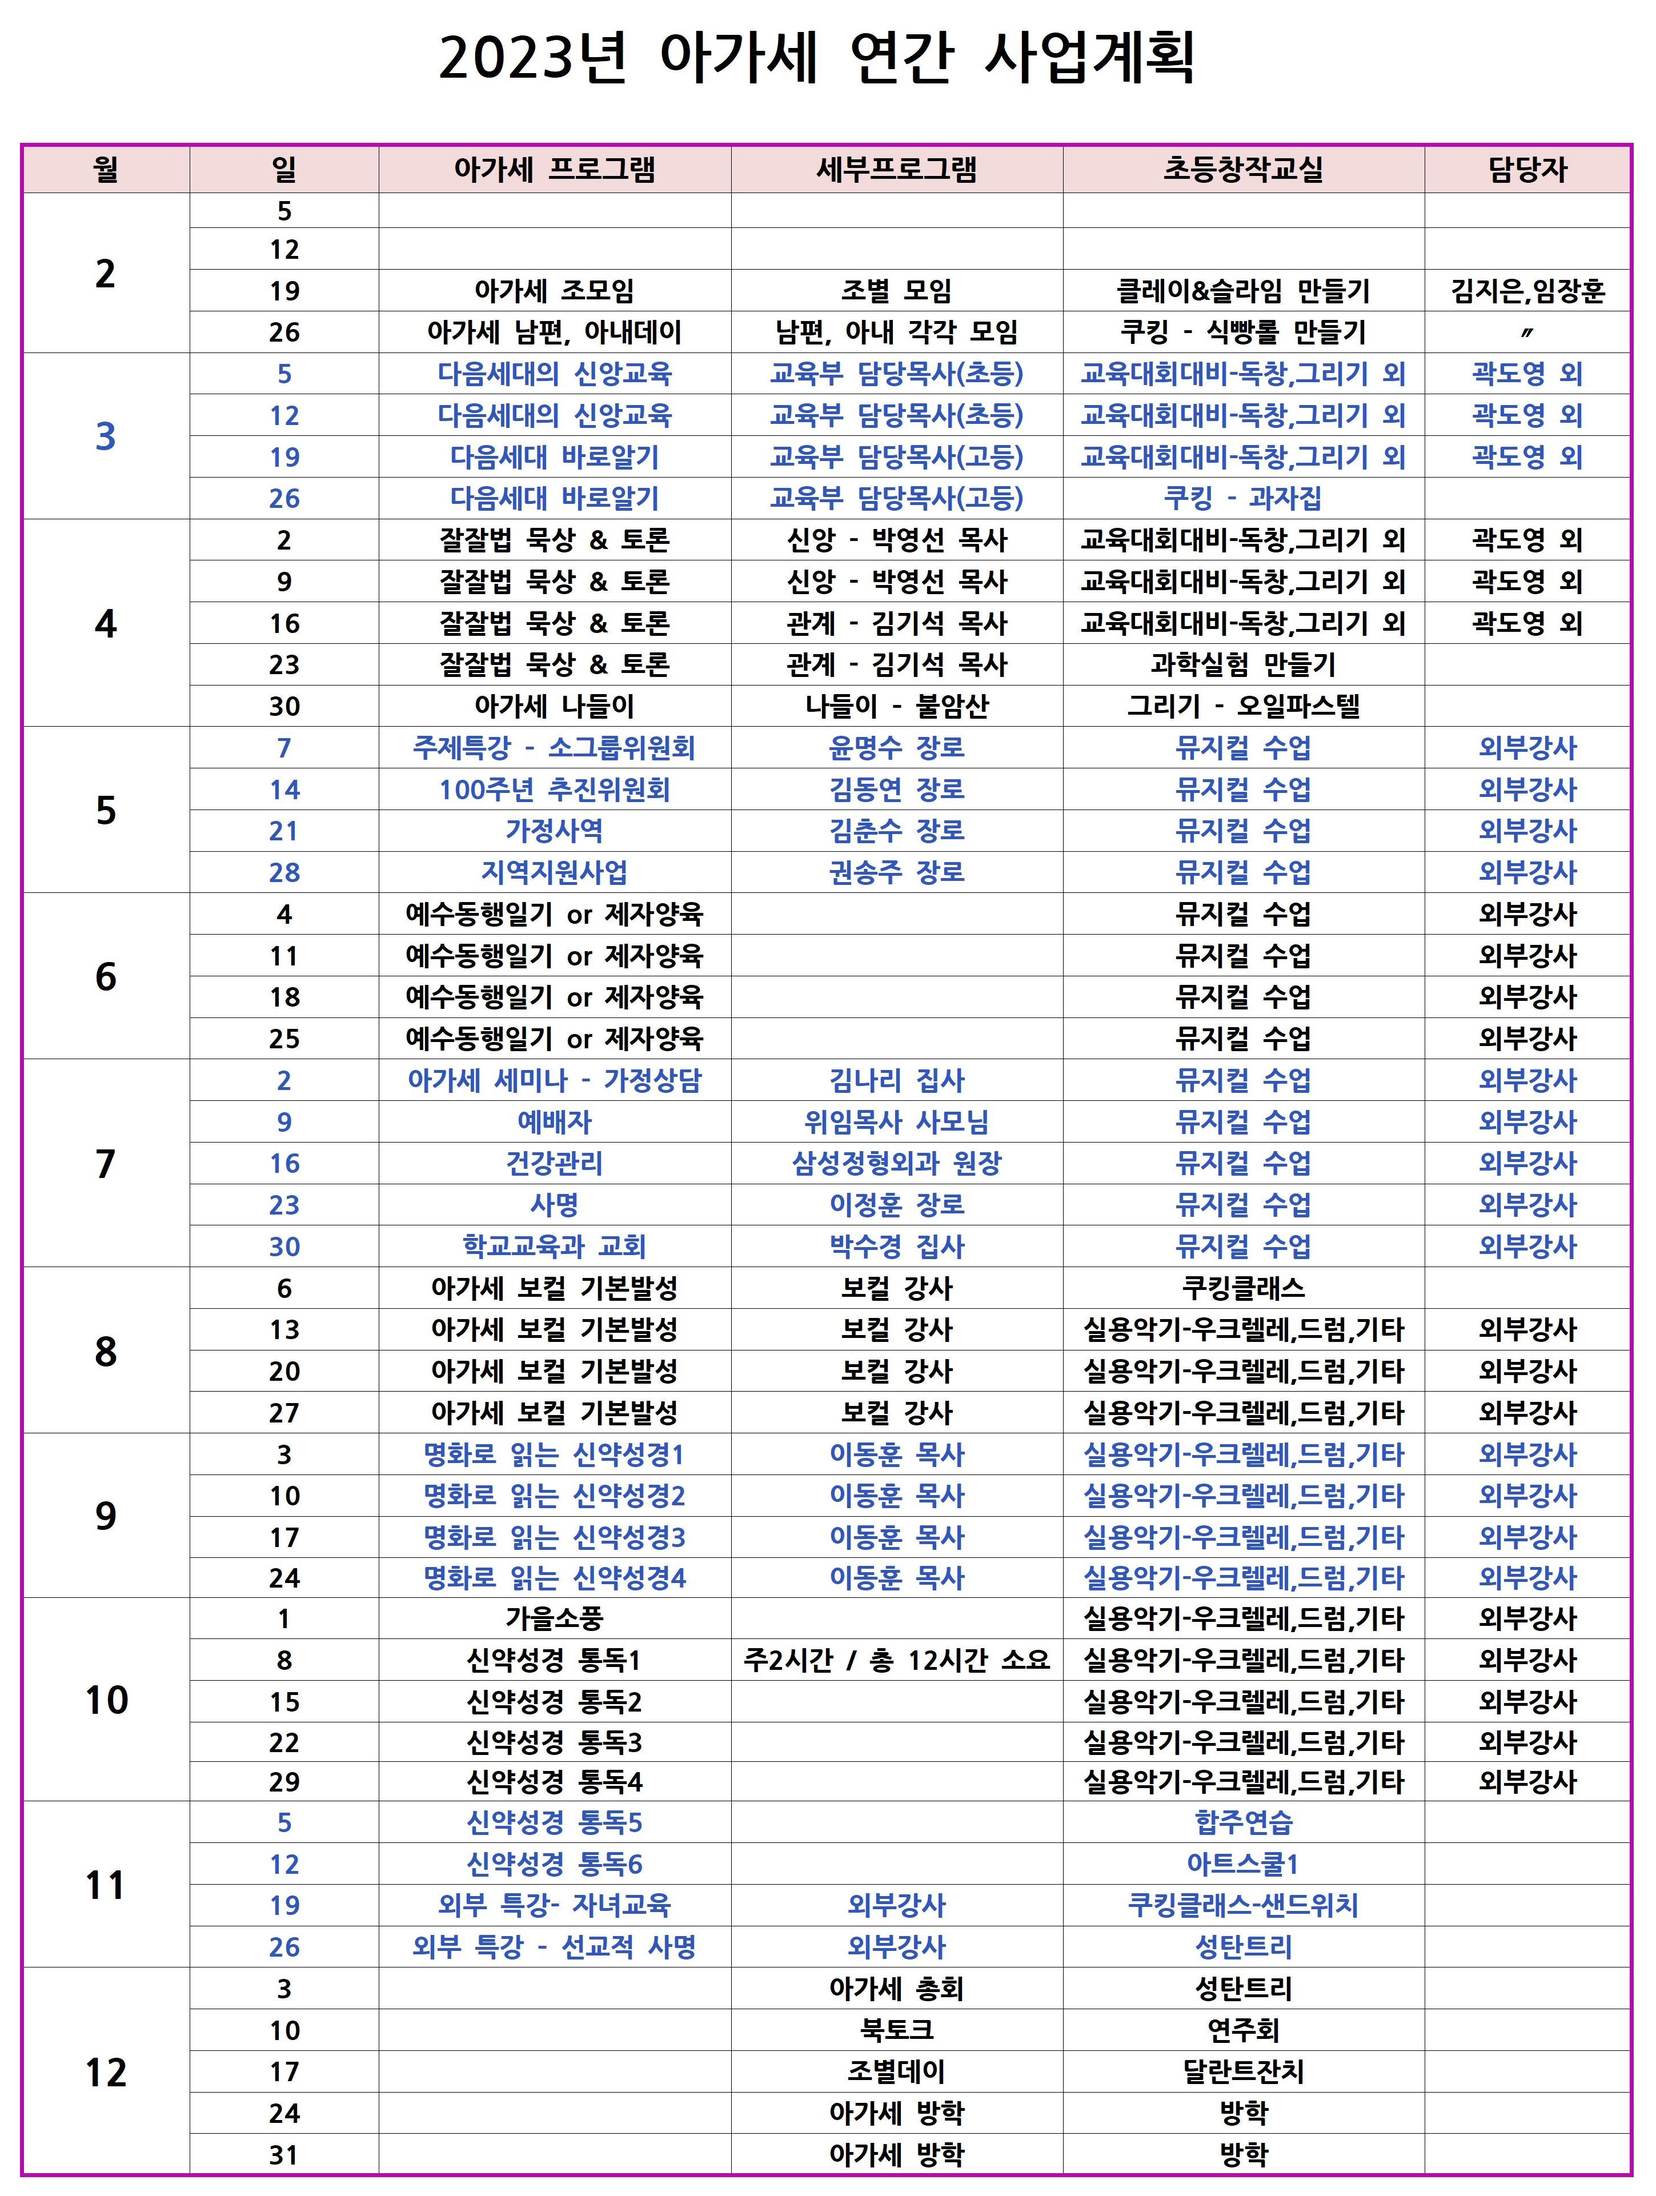
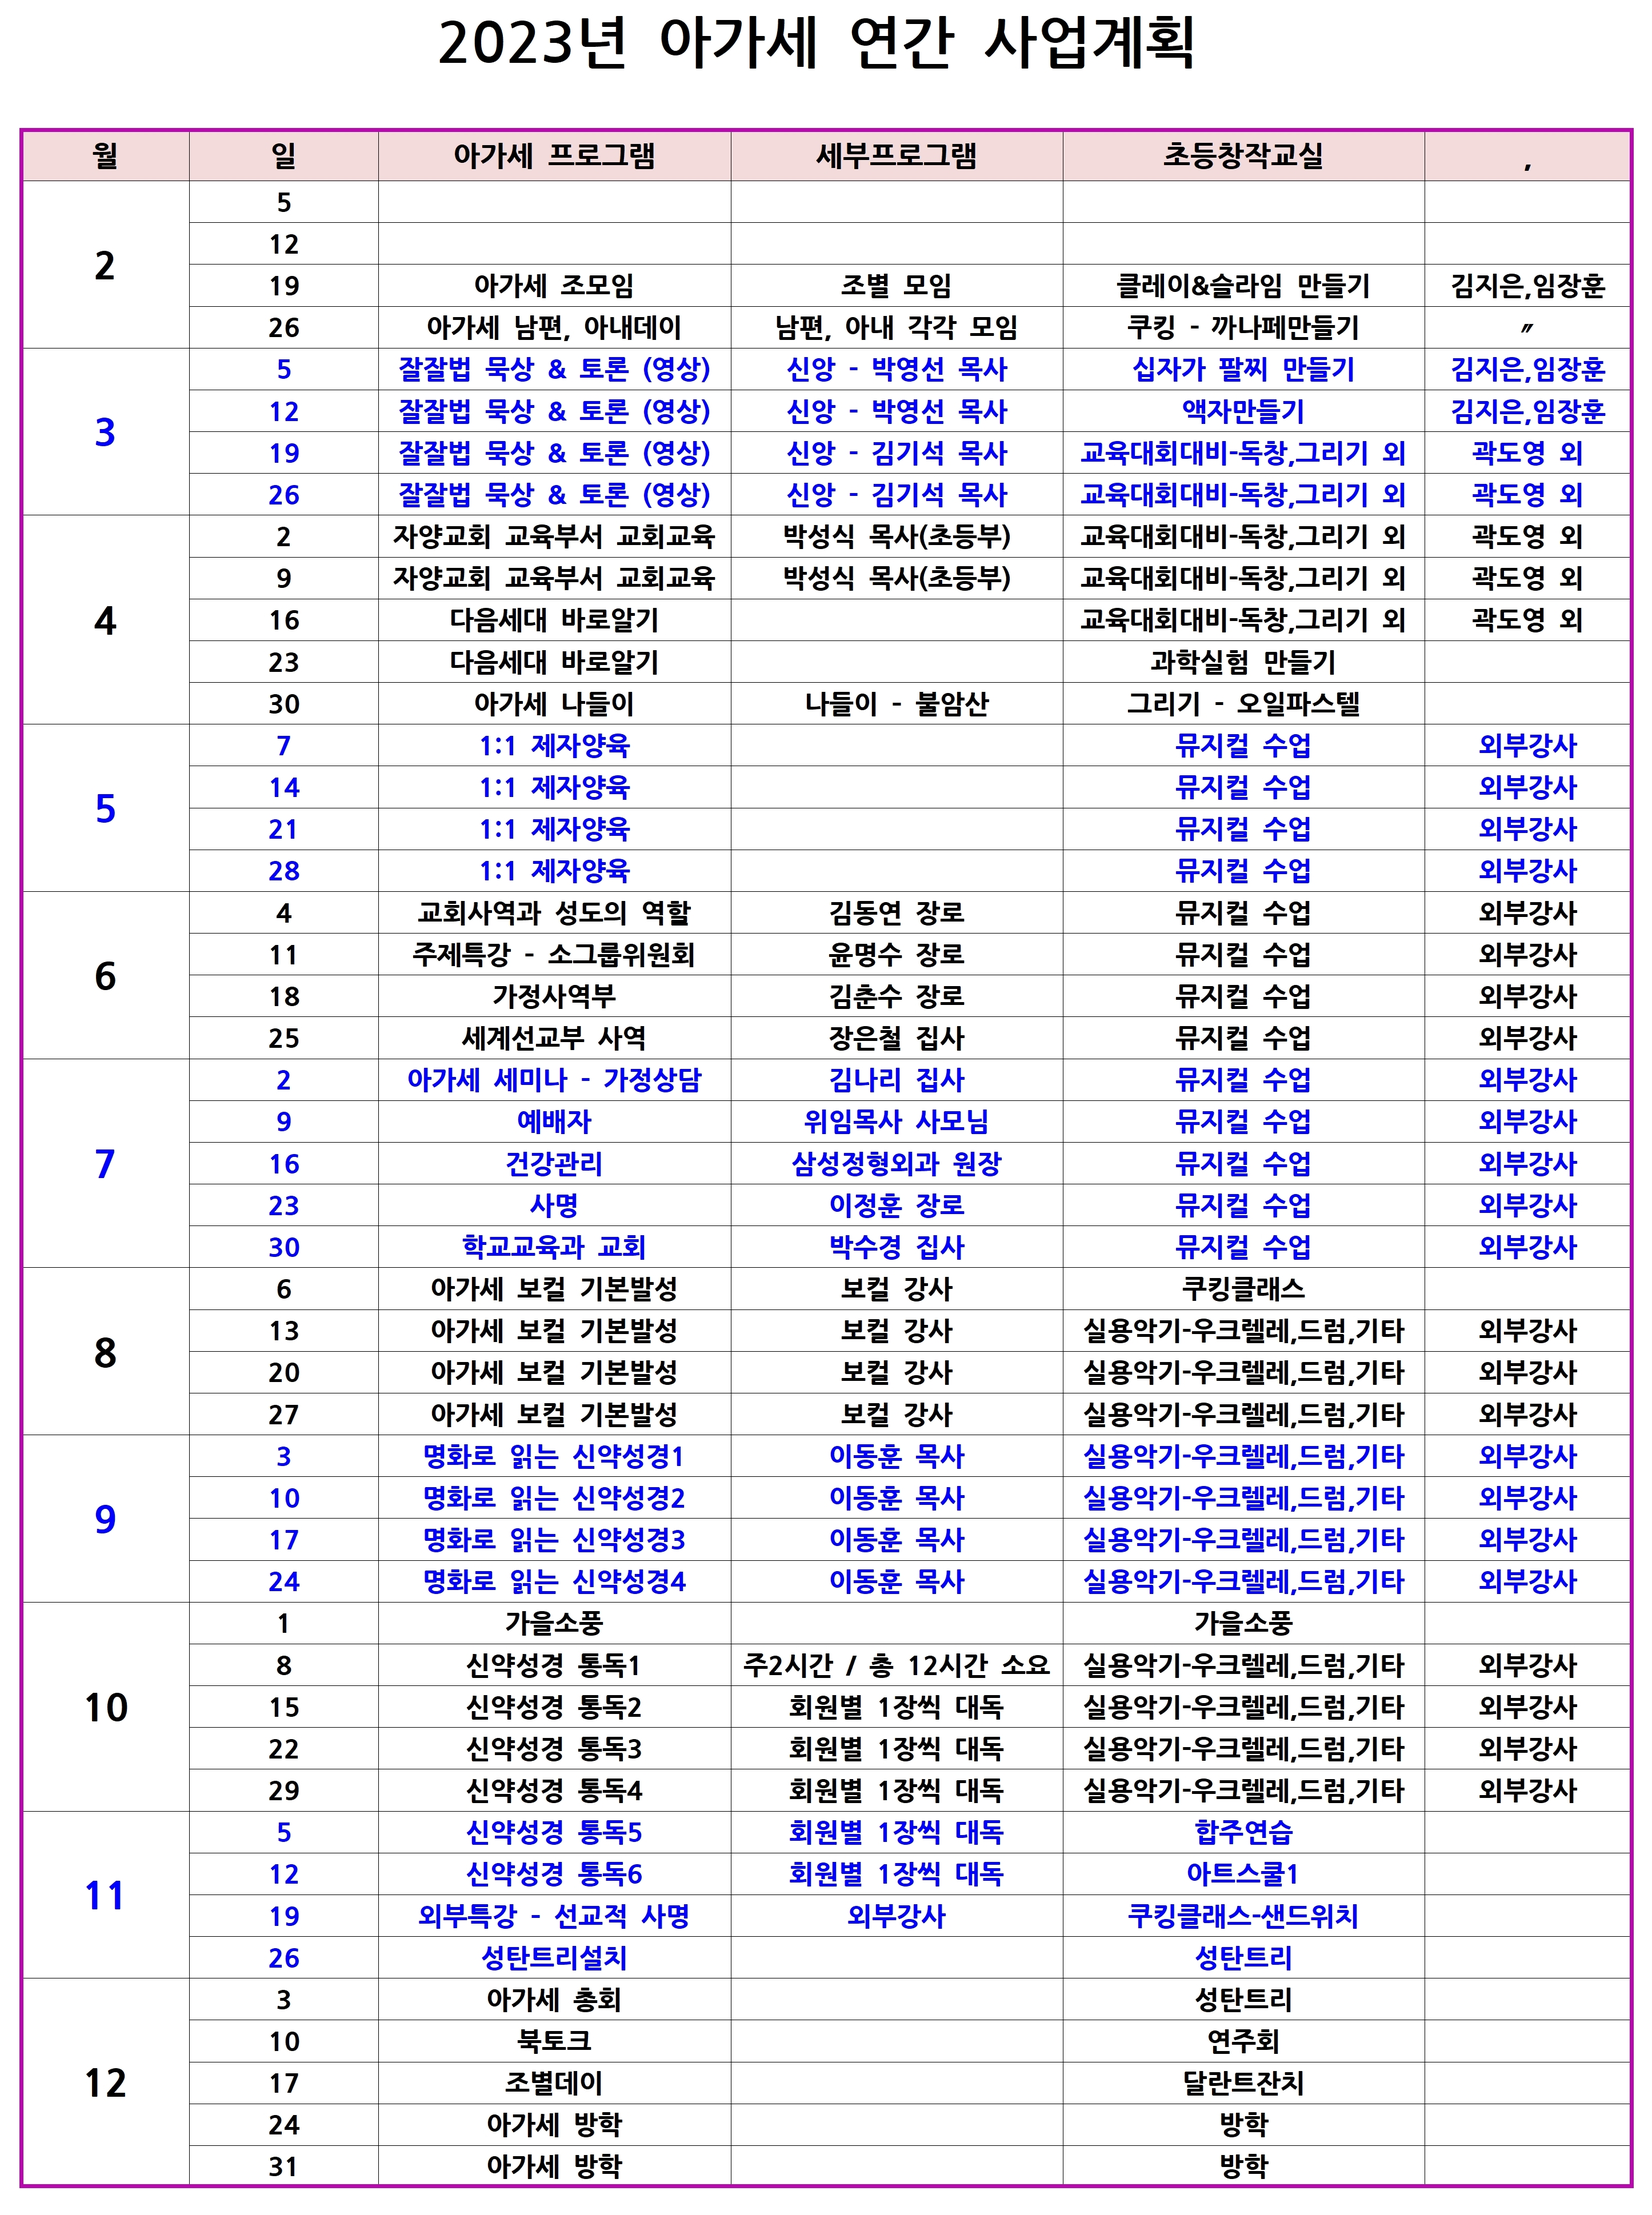
2023-02-26

Changed region(s): [[0.0, 0.0, 0.9962, 0.999], [0.0623, 0.7492, 0.0934, 0.7804], [0.0623, 0.1873, 0.0934, 0.2185]]

diff --git a/2023-02-26.md b/2023-02-26.md
@@ -14,64 +14,44 @@ permalink: /last
 ## 예배와 나눔
 
 ### 1. 🎤 찬양
-- 찬양 인도: 정주영 집사
-- 오늘의 찬양: 미정 🎵 [악보보기](#1){: .label}
-- 찬양 영상: 📺 [유튜브(새창)](https://www.youtube.com/watch?v=qDyCoSMia48&feature=youtu.be){: .label}
+- 찬양 인도: 김태근 집사
+- 오늘의 찬양:
+  - 예수 가장 귀한 그이름  🎵 [악보보기(1)](#1){: .label}
+  - 모든 걸음 되시네 🎵 [악보보기(2)](#2){: .label}
+- 찬양 영상: 📺 [유튜브(새창)](https://www.youtube.com/playlist?list=PLb8xb_lIoJ_HK2A0LogV1LJuPCdc6u5QD){: .label}
 
 ### 2. 🙏 대표기도
-- 대표기도: 정주영 집사 (다음: 황인택 집사)
+- 대표기도: 김춘수 장로 (다음: 정주영 집사)
+- 전하는 말: 김춘수 장로
 - 간식, 대표기도 일정 [확인 및 수정(구글시트)](https://docs.google.com/spreadsheets/d/1lbI19_aBxfNdhaPLaUOwoYV0HYdjHeSiXNjnpaHt0dw/edit?usp=sharing){: .label}
 
-### 3. ⛪ 예배
-- 말씀: 이동훈 목사
-- 인사: 김춘수 장로, 장은철 집사
-
-### 4. 🗣 안내
+### 3. 🗣 안내
 - 진행: 하걸범 집사
 
-### 5. ☕ 나눔
+### 4. ☕ 나눔
 - 진행 행사
-  - 👨 남편 데이 (교육관 9층)
-  - 👩 아내 데이 (외부, 1인당 7천원 지원)
+  - 👨 남편 데이: 인도 - 김효일 집사 (교육관 9층)
+  - 👩 아내 데이: 인도 - 김나리 집사 (외부, 1인당 7천원 지원)
 
 - 모임  주제
   - 분기 별 조 구성
   - 조별 나눔 시 Guidance 수립
 
-- 다음: 잘잘법 묵상 & 토론 [박영선 목사]
+- 다음: 잘잘법 묵상 & 토론 [신앙 - 박영선 목사]
 - 전체 프로그램 [사업계획](schedule){: .label}
 
 ## 🏫 아동스쿨
-- 주제: 쿠킹 - 식빵롤 만들기
+- 주제: 쿠킹클라스 - 까나페 만들기
+- 시간: 12시 ~ 13시
 - 담당교사: 김지은, 임장훈
-- 시간: 12시 ~ 1시
-- 다음: 교육대회 준비 (독창, 그리기 등)
-
-<!-- - 오늘의 QT: [생명의삶](#qt){: .label} -->
-
-<!-- ### 4. 알림 -->
-<!-- - 오늘은 아가세 종강 모임으로 모입니다. 준비한 음식을 함께 나누며 총회를 진행하고자 합니다. -->
-<!-- - 지난 1년 간 아가세 가족 모두 수고 많으셨습니다. 방학 중에도 하나님의 은혜 가운데 거하시기를 기원하며 2023년 개강 모임은 추후 공지하겠습니다. -->
-<!-- - 교회 창립 100주년을 맞아 진행 중인 “성경 100권” 필사 운동에 아기세 가족들의 많은 참여 부탁드립니다. -->
-
-<!-- ## 함께 기도해요 -->
-<!-- - 김대중 집사: 아버님이 주님을 영접하시고, 진숙현 지사님의 어께 통증이 치유받도록 -->
-<!-- - 이승은/정현숙 집사: 자녀(주아, 수한)의 믿음이 잘나고 교회 출석에 열심을 낼 수 있도록 -->
-<!-- - 황인택 집사: 아버님의 건강을 회복시켜 주시고, 마음을 열어 예수님을 영접할 수 있도록 -->
-<!-- - 김경미 집사: 딸들의 건강을 지켜주시고 은혜 가운데 잘 자라날 수 있도록 -->
-<!-- - 배지연 집사: 진로(진학, 수련, 직장)와 관련하여 하나님의 인도하심을 위해 -->
+- 다음 주제: 십자가 팔찌 만들기
 
 ---
 
 ## 악보
 
 ### 1
-<!-- ![](attachments/rise-again_welove.jpeg) -->
+![](attachments/2023-02-26_1.png)
 
-<!-- ### 2 -->
-<!-- ![](b.jpeg) -->
-
-<!-- ## QT -->
-
-
-<!-- ### 디모데를 보내려는 이유 2:19~24 -->
+### 2
+![](attachments/2023-02-26_2.png)
